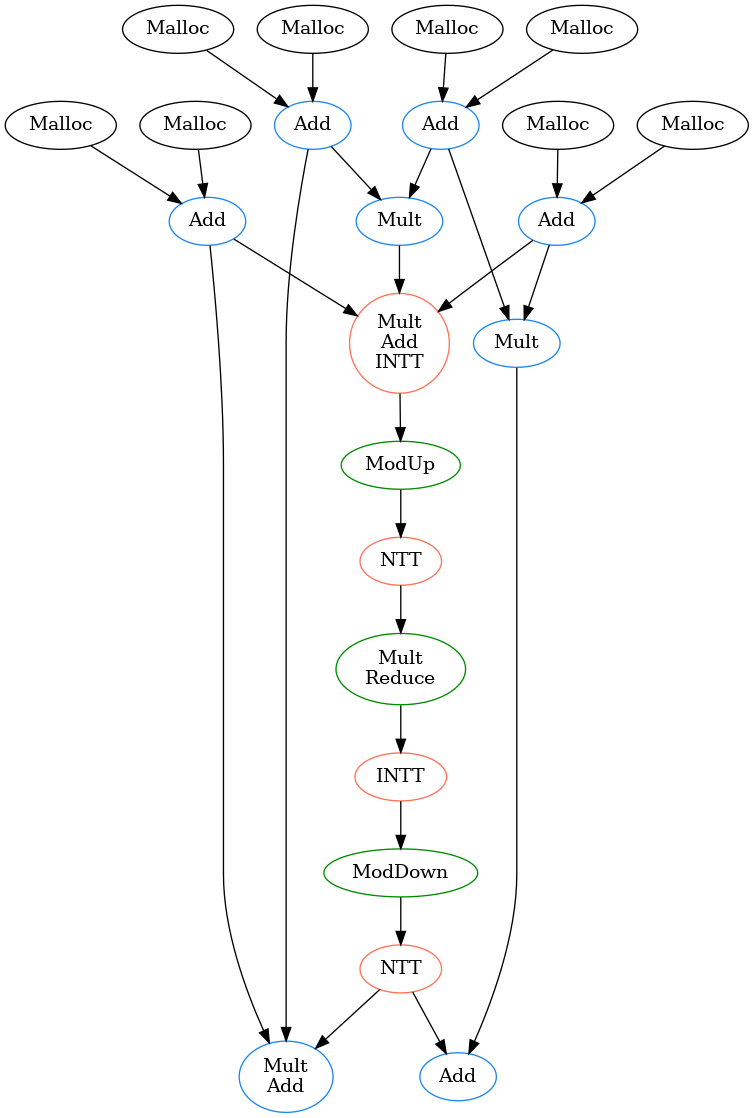
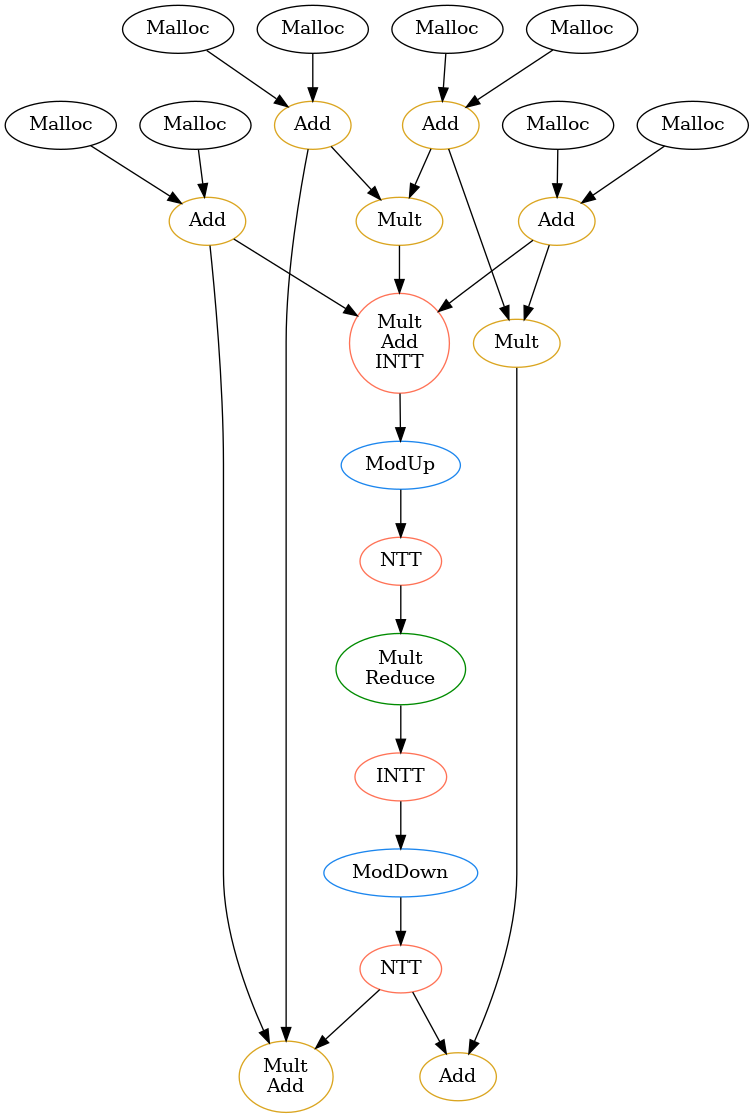
introduce alpha, beta

diff --git a/src/poly-op.cc b/src/poly-op.cc
@@ -3,10 +3,12 @@
 std::string getColor(AccessPattern ap) {
     switch (ap) {
         case ElemWise:
-            return "dodgerblue2";
+            return "goldenrod";
         case PolyWise:
             return "coral1";
-        case CoeffWise:
+        case AlphaWise:
+            return "dodgerblue2";
+        case BetaWise:
             return "green4";
         case Other:
             return "black";
@@ -27,15 +29,15 @@ PolyOp NewKeySwitch(){
 }
 
 PolyOp NewModDown(){
-    return {"ModDown", CoeffWise, getColor(CoeffWise)};
+    return {"ModDown", AlphaWise, getColor(AlphaWise)};
 }
 
 PolyOp NewModUp(){
-    return {"ModUp", CoeffWise, getColor(CoeffWise)};
+    return {"ModUp", AlphaWise, getColor(AlphaWise)};
 }
 
 PolyOp NewReduce(){
-    return {"Reduce", CoeffWise, getColor(CoeffWise)};
+    return {"Reduce", BetaWise, getColor(BetaWise)};
 }
 
 PolyOp NewNTT(){

diff --git a/src/graph.h b/src/graph.h
@@ -11,7 +11,8 @@
 enum AccessPattern {
     ElemWise,
     PolyWise,
-    CoeffWise,
+    AlphaWise,
+    BetaWise,
     Other
 };
 
